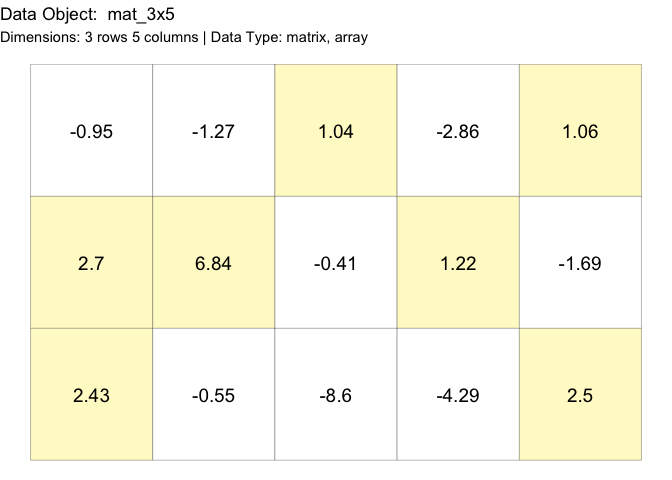
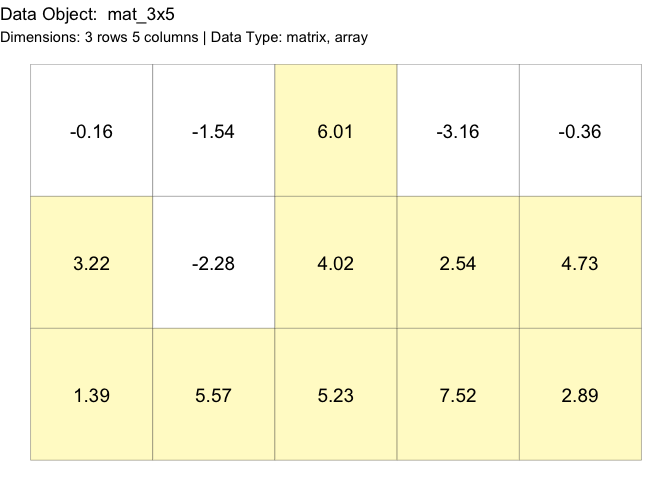
Re-generate README

diff --git a/README.md b/README.md
@@ -1,4 +1,8 @@
 
+- [drawr](#drawr)
+  - [Installation](#installation)
+  - [Example](#example)
+
 <!-- README.md is generated from README.Rmd. Please edit that file -->
 
 # drawr
@@ -25,8 +29,10 @@ devtools::install_github("coatless-rpkg/drawr")
 This is a basic example which shows you how to solve a common problem:
 
 ``` r
+# Load the library
 library(drawr)
 
+# Randomly filled matrix
 mat_3x5 = matrix(round(rnorm(15, 0, 4), 2), ncol = 5)
 
 # Graphic of matrix data structure using base R graphics
